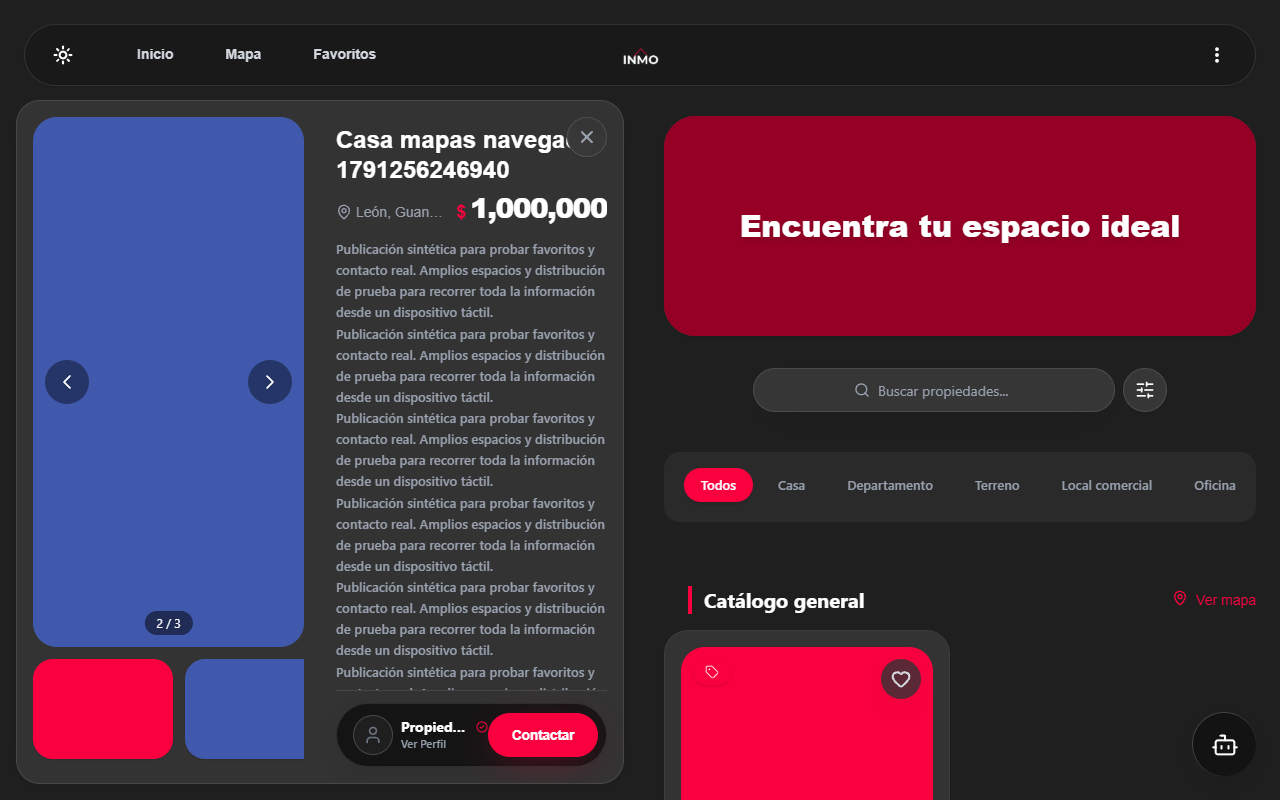
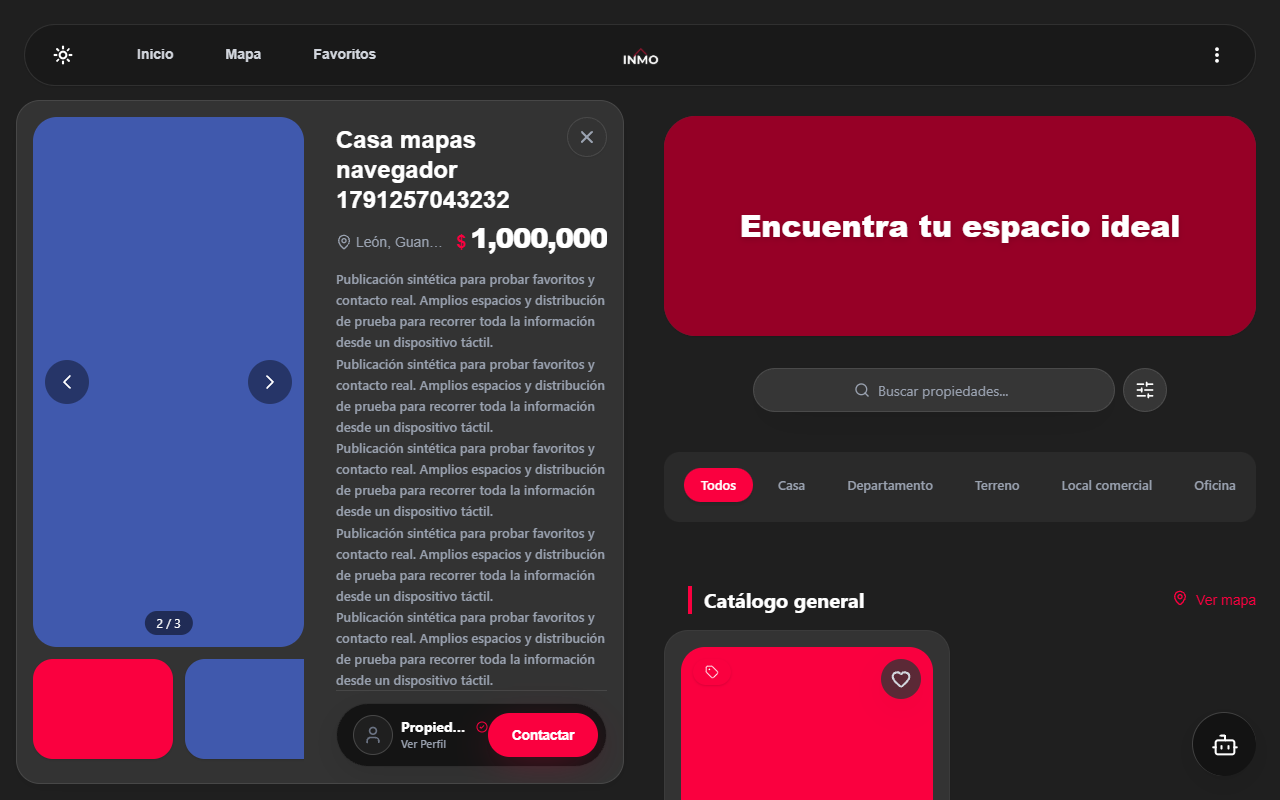
Documentar integración final y aislar las regresiones de inventario

Changed region(s): [[0.25, 0.1562, 0.5, 0.875]]

diff --git a/e2e/property-workflow.spec.ts b/e2e/property-workflow.spec.ts
@@ -3,17 +3,34 @@ import { expect, test } from '@playwright/test';
 const api = process.env.E2E_API_URL ?? 'http://127.0.0.1:8000/api/v1';
 const backend = api.replace(/\/api\/v1$/, '');
 
-test.afterEach(async ({ request }) => {
+// The guarded E2E database is reused locally. Retire these synthetic fixtures
+// through the real API so repeated runs do not accumulate hundreds of trash rows.
+async function cleanInventoryFixtures(request: import('@playwright/test').APIRequestContext) {
   const login = await request.post(`${api}/sesiones`, { data: { correo: 'phase4-advisor@example.com', password: 'Secure1!' } });
   const { access_token } = await login.json() as { access_token: string };
   const headers = { Authorization: `Bearer ${access_token}` };
-  const result = await request.get(`${api}/me/propiedades?limit=100`, { headers });
-  const { items } = await result.json() as { items: Array<{id:string;titulo:string;estado_publicacion:string;version:number}> };
-  for (const item of items.filter(item => item.titulo.startsWith('Casa navegador') && item.estado_publicacion !== 'ARCHIVADA')) {
-    const archived = await request.post(`${api}/me/propiedades/${item.id}/publicacion`, { headers: { ...headers, 'If-Match': `"v${item.version}"` }, data: { accion: 'ARCHIVAR' } });
-    expect(archived.status()).toBe(200);
+  type Fixture = {id:string;titulo:string;estado_publicacion:string;version:number};
+  const items: Fixture[] = [];
+  let cursor: string | null = null;
+  do {
+    const result = await request.get(`${api}/me/propiedades`, { headers, params: { limit: 100, ...(cursor ? { cursor } : {}) } });
+    expect(result.ok()).toBe(true);
+    const page = await result.json() as { items: Fixture[]; next_cursor: string | null };
+    items.push(...page.items);
+    cursor = page.next_cursor;
+  } while (cursor);
+  for (let item of items.filter(item => item.titulo.startsWith('Casa navegador'))) {
+    if (item.estado_publicacion !== 'ARCHIVADA') {
+      const archived = await request.post(`${api}/me/propiedades/${item.id}/publicacion`, { headers: { ...headers, 'If-Match': `"v${item.version}"` }, data: { accion: 'ARCHIVAR' } });
+      expect(archived.status()).toBe(200);
+      item = await archived.json();
+    }
+    const retired = await request.delete(`${api}/me/propiedades/${item.id}/retiro`, { headers: { ...headers, 'If-Match': `"v${item.version}"` } });
+    expect(retired.status()).toBe(200);
   }
-});
+}
+test.beforeAll(async ({ request }) => { test.setTimeout(120_000); await cleanInventoryFixtures(request); });
+test.afterEach(async ({ request }) => { await cleanInventoryFixtures(request); });
 
 test('real inventory saves, uploads and publishes with the refreshed resource version', async ({ page, request }) => {
   test.setTimeout(60_000);

diff --git a/docs/Integracion_INMO_3e6344e.md b/docs/Integracion_INMO_3e6344e.md
@@ -25,12 +25,29 @@ Se aplica [estilo-inmo](../agent/skills/estilo-inmo/SKILL.md). Se conservan las 
 | Catálogo dividido | Columnas y etiqueta de ubicación responden al ancho del panel, evitando tarjetas de unos 100 px en tableta | Anchura mínima de tarjeta comprobada durante el detalle abierto |
 | Mapas / tema | Se retiene la instancia, cámara, selección y geometría aproximada; no se dibujan las áreas rojas retiradas por el diseño nuevo | Cuatro cambios de tema con estilos retrasados y recuperación explícita de error |
 | Administración / chat | Pestañas uniformes conservadas y un único cierre de conversación. Archivo, mensajes y adjuntos existentes | Navegación protegida en ambos temas y tamaños; chat de ambos participantes |
+| Inventario / guardar orden | La respuesta confirmada actualiza orden y versiones; conserva papelera y refresca fichas privadas sin volver a descargar todas las páginas y fotografías | Regresión unitaria de caché y recorridos de orden, fotografías, publicación y conflicto `412` |
 
 Se conservan login único, JWT en memoria, `/me`, onboarding obligatorio, documentos privados, aprobación, pago confirmado por proveedor, ETags `"vN"`, recuperación manual de `412`, inventario y retirada con historial. Sin calificaciones, reseñas, Renta ni traspasos de propiedades. La PWA mantiene su caché de recursos estáticos.
 
 ## Validación y límites de la evidencia
 
 Los comandos reproducibles son `npm test`, `npm run lint`, `npm run build`, `npx playwright test` y `npx playwright test --config playwright.maps.config.ts`, con `E2E_API_URL=http://127.0.0.1:8002/api/v1`.
+
+Resultados ejecutados en cada checkout:
+
+| Control | Frontend propio | INMO copia |
+| --- | --- | --- |
+| Unitarias | 44 pruebas en 16 archivos | 44 pruebas en 16 archivos |
+| Lint | 0 errores, 9 avisos | 0 errores, 9 avisos |
+| Build | TypeScript, Vite y PWA correctos; 102 entradas de precaché | TypeScript, Vite y PWA correctos; 102 entradas de precaché |
+| Navegador | 23 casos de mapas/touch y 42 de regresión | 23 casos de mapas/touch y 42 de regresión |
+| Equivalencia | 101 archivos compilados comparados por SHA-256 con las mismas variables públicas | Sin diferencias con el build propio |
+
+La ejecución completa de INMO copia detectó una espera excesiva al guardar el orden del inventario (41 casos correctos y uno fallido). Se corrigió la invalidación que recargaba páginas y fotografías sin cambios; se repitieron los tres recorridos afectados en ambos repositorios. Los ocho recorridos táctiles se repitieron después de reservar espacio para que el título largo no quede bajo el cierre. Estos reintentos se distinguen de las ejecuciones completas y no se contabilizan como casos adicionales.
+
+Una repetición del recorrido completo de publicación alcanzó su límite de 60 segundos con cientos de fixtures acumulados en la papelera. Se hizo paginada la limpieza de propiedades sintéticas `Casa navegador` mediante archivo y retirada con historial, antes y después de esas pruebas. Con esa corrección de aislamiento, el mismo recorrido pasó en 19,1 segundos sin aumentar su límite. El servidor E2E comprueba que la base sea exclusiva de pruebas antes de ejecutar cualquier limpieza.
+
+Persisten nueve avisos de lint relativos a efectos y exports de Fast Refresh, el aviso de tamaño del chunk del SDK de Mapbox y avisos de Recharts al medir paneles ocultos. No hubo excepciones de página en los recorridos táctiles. No se afirma una prueba en dispositivos físicos: se utilizaron Chrome, viewports y eventos táctiles nativos.
 
 La API E2E utiliza exclusivamente MySQL de pruebas y comprueba su identidad antes de los recorridos. Archivos, correo y Stripe utilizan proveedores de memoria. Los mapas ejecutan el SDK real de Mapbox/WebGL con estilos locales controlados, incluyendo cargas retrasadas y errores; no constituyen una prueba del proveedor remoto. La prueba adicional de paginación intercepta únicamente las páginas del portafolio para producir un fallo recuperable; las consultas de perfil, detalle y fotografías conservan la API real aislada.
 
